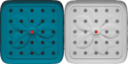
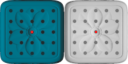
restored jeremy's rotated class, so rotation works correctly again. rotated both piece images so the lotus flower points forward.

diff --git a/thrive.css b/thrive.css
@@ -71,11 +71,9 @@
 	text-align: center;
 }
 
-/*
 .rotated {
 	transform:rotate(180deg);
 }
-*/
 
 #board {
    width: 600px;
